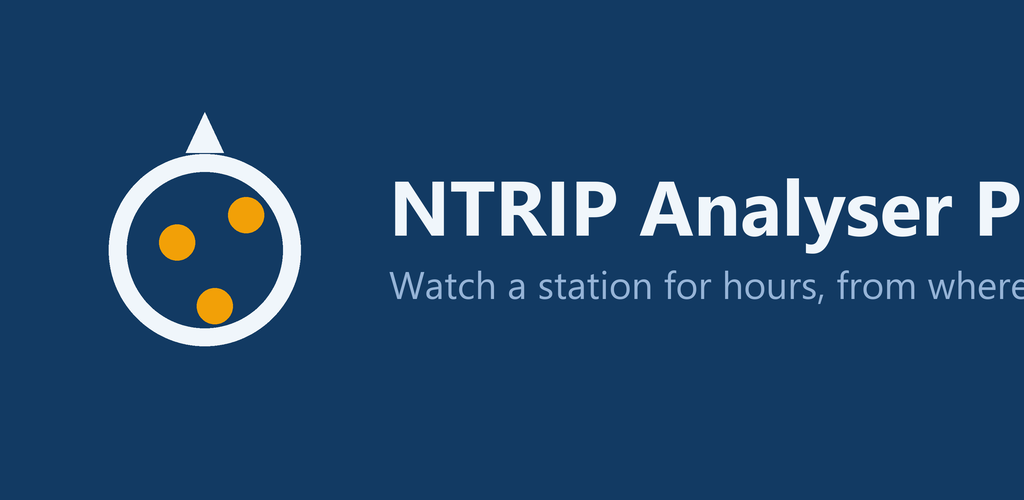
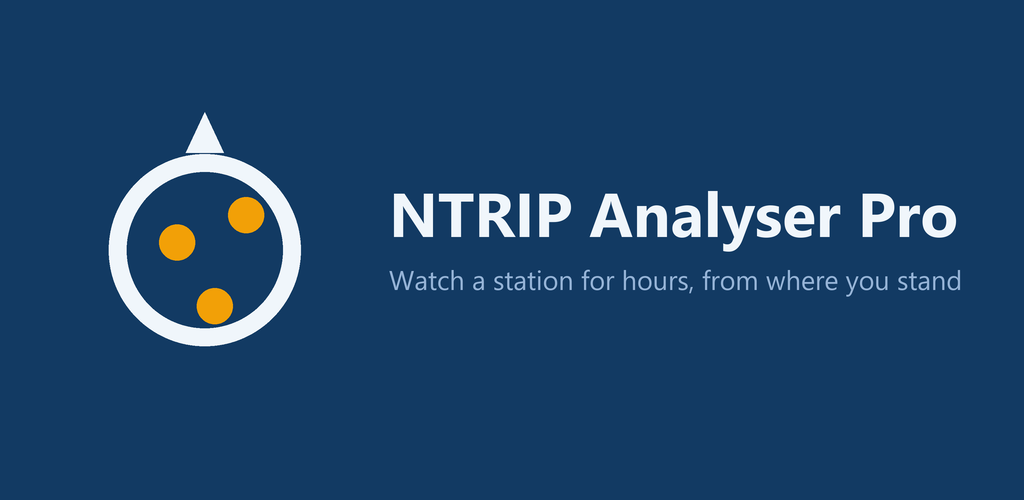
Curate: six gotchas from the Play sitting, and one about advice
The console's mechanics cost a step each -- the package binds at
creation, the price hides behind a seller account and blocks every
track, tracks do not share releases, a version code exists once. The
device work cost three more: a debug build cannot be replaced in
place, EMUI has no screenrecord and Git Bash eats /sdcard paths, and
a screen recording carries whatever the notification shade holds.
The feature graphic taught that a layout depending on a string must
measure the string, and now asserts it.

The promotion is about the agent, not the code: a EUR 12.99 price
was recommended as the middle of a comparison set that had never
been looked up, and the author was one click from pricing a listing
on it. CLAUDE.md gains the constraint -- cite the basis or say there
isn't one -- because this project holds its state claims to a verify
command and its advice should not be looser. Current State carries
pro's closed-test preparation and the internal-track proof that the
Play-signed artefact runs.

Changed region(s): [[0.375, 0.36, 1.0, 0.51], [0.375, 0.54, 1.0, 0.6]]

diff --git a/tools/make_feature_graphic.py b/tools/make_feature_graphic.py
@@ -58,6 +58,29 @@ EDITIONS = {
 }
 
 
+# Text must end this far from the right edge, as a fraction of the
+# width. Play crops this graphic on some surfaces and the first
+# casualty is always text near a border.
+RIGHT_MARGIN = 0.06
+
+
+def fitted(d, text, px, bold, avail):
+    """The largest size at or below @p px whose text fits @p avail.
+
+    The sizes above were chosen against the free edition's title and
+    never measured against anything else, so "NTRIP Analyser Pro" ran
+    off the canvas and the listing showed "NTRIP Analyser P" -- caught
+    by the author's eye at upload, 2026-08-26. A layout that depends on
+    the length of a string has to measure the string.
+    """
+    while px > 8:
+        f = font(px, bold=bold)
+        if d.textlength(text, font=f) <= avail:
+            return f
+        px -= 2
+    return font(8, bold=bold)
+
+
 def font(px, bold=False):
     for name in (("segoeuib.ttf", "arialbd.ttf") if bold
                  else ("segoeui.ttf", "arial.ttf")):
@@ -80,10 +103,16 @@ def build(edition):
     icons.draw_mark(d, cx, cy, r, accent)
 
     x = w * 0.38
-    t = font(int(h * 0.155), bold=True)
-    s = font(int(h * 0.077))
+    avail = w - x - w * RIGHT_MARGIN
+    t = fitted(d, title, int(h * 0.155), True, avail)
+    s = fitted(d, promise, int(h * 0.077), False, avail)
     tw = d.textbbox((0, 0), title, font=t)
     sw = d.textbbox((0, 0), promise, font=s)
+    # Both lines are measured after fitting, so an overflow cannot ship
+    # quietly the way the first pro graphic did.
+    for label, text, f in (("title", title, t), ("promise", promise, s)):
+        assert d.textlength(text, font=f) <= avail, (
+            "%s overflows the %s graphic" % (label, edition))
     block = (tw[3] - tw[1]) + int(h * 0.06) + (sw[3] - sw[1])
     y = (h - block) / 2 - tw[1]
 

diff --git a/memory/gotcha-log.md b/memory/gotcha-log.md
@@ -206,7 +206,7 @@
 ### A hand-written source list drifted until a second build system was run (2026-08-15) [RESOLVED]
 **Problem**: `make -C service` failed to link — undefined reference to `get_gnss_id_from_rtcm` — on its first CI run. It had been broken for some time.
 **Root cause**: `service/Makefile` lists its sources by hand and never gained `src/net/ntrip_handler.c`. CMake keeps its own list and built the daemon happily, so the failure was invisible to everyone except a packager or a VPS deployment.
-**Fix**: Wildcard the shared directories (`src/core`, `src/net`, `src/session` are shared *by definition*; anything platform-specific lives elsewhere). **If two build systems describe the same sources, CI must run both** — the same gap the GUI's `build-gui.bat` still has.
+**Fix**: Wildcard the shared directories (`src/core`, `src/net`, `src/session` are shared *by definition*; anything platform-specific lives elsewhere). **If two build systems describe the same sources, CI must run both** — the gap the GUI's `build-gui.bat` had until it was retired outright on 2026-08-25 (TLS L2), leaving `CMakeLists.txt` as the only desktop list.
 
 ### A tag on a tree whose bump was never committed (2026-08-15) [x2]
 *Recurred 2026-08-18, identically, with `v3.5.0`: same staged-not-committed bump, same failed run, same message with the numbers changed. It had been marked `[RESOLVED]` three days earlier — wrongly, because the recorded fix was **advice** ("check `git show <tag>:version.h` first"), and advice is not a mechanism. What actually works is already in place and worked twice: `CheckReleaseTag.cmake` failed the run before anything was published. Retiring an entry needs a change to the code or the procedure, not a resolution to be careful.*
@@ -414,6 +414,36 @@ Found by probe rather than by reading: a background colour showed the empty band
 **Root cause**: `ns_proto` had parsed `handshake.chunked` since the field existed and the GUI displayed it; nothing ever decoded the framing. A parsed-but-unconsumed field is a decision postponed until a live wire forces it.
 **Fix**: the session de-chunks (gated on the handshake), the sourcetable fetch de-chunks in place, and the loopback caster serves chunked with boundaries cut mid-frame -- falsified by gating the decoder off, which reproduced the live corruption exactly.
 
+### A recommendation dressed as research (2026-08-26)
+**Problem**: the agent recommended a €12.99 price "mid-upper of the comparison set -- NTRIP clients and GNSS field tools sit at €5-20", and the author was one click from attaching that number to a real listing.
+**Root cause**: the band was an impression, not a search. Nothing had been looked up; the phrase "comparison set" implied evidence that did not exist. The project has a verified-claims discipline for *state* ("shipped", "16 tests") and none for *recommendations*, which decay the same way and cost more.
+**Fix**: the author asked for the real table, the search found there is **no paid NTRIP app market on Play at all** (clients free because they sell hardware; the nearest analogue, NtripChecker, free with 10,000+ installs; the next rung $100-300 survey suites), and the price became €5 on evidence. Promoted below: cite the basis or say plainly there isn't one.
+
+### A release build cannot replace a debug build in place (2026-08-26)
+**Problem**: `install -r` of pro's release APK over the Huawei's leftover debug build failed with `INSTALL_FAILED_UPDATE_INCOMPATIBLE`; the only route is uninstall, which wipes saved connections and credentials on a phone that holds the author's real data.
+**Root cause**: different signing keys. A debug build left on a test phone is not a neutral state -- it is a one-way door that costs data to leave.
+**Fix**: asked before uninstalling, then rebuilt the RFSEE01 profile from `bin/config.json` and **proved the retyped password by running a check** rather than asserting it. Rule: after a debugging session, put the release build back the same day, while its settings are still cheap to restore.
+
+### The device is not the same device twice (2026-08-26) [x2]
+**Problem**: `adb shell screenrecord` -- "inaccessible or not found" on the Huawei; and the same command wrote nothing because Git Bash rewrote `/sdcard/fsvc.mp4` into `C:/Program Files/Git/sdcard/fsvc.mp4`.
+**Root cause**: EMUI ships no `screenrecord` binary (Samsung does), and MSYS path conversion mangles absolute device paths that look like POSIX paths.
+**Fix**: record on the S23; `export MSYS_NO_PATHCONV=1` for every adb command naming a device path.
+
+### A screen recording carries whatever the shade holds (2026-08-26)
+**Problem**: a video destined for Google -- and an unlisted YouTube upload -- pulled down the notification shade twice, capturing the author's Google Payments mail about verifying a bank account, and on the retake the phone's own charging and USB notifications.
+**Root cause**: demonstrating an ongoing notification means showing the shade, and the shade is not ours.
+**Fix**: inspect the shade with a screenshot **before** recording, never after; and record **unplugged over Wi-Fi adb** (`adb tcpip 5555`), which removes the charging notifications the cable itself creates. Screen timeout and battery saver are raised for the take and restored afterwards, both values read first.
+
+### A layout that depends on a string must measure the string (2026-08-26)
+**Problem**: pro's Play feature graphic read "NTRIP Analyser P" -- title and tagline both ran off the 1024x500 canvas. Caught by the author's eye at upload, not by any check.
+**Root cause**: `make_feature_graphic.py` chose font sizes as fractions of the canvas height, sized against free's shorter title, and never measured the text it drew. Its own docstring promised "everything sits inside a wide safe area".
+**Fix**: fit the text to the available width and **assert** both lines fit before saving. Free's graphic and the social preview regenerated byte-identical, which is the fitter proving it shrinks only what overflows.
+
+### Play Console mechanics that cost a step each (2026-08-26)
+**Problem**: four wrong assumptions in one sitting -- that the package name binds at first upload, that the price could wait until production, that a bundle uploaded once is available to every track, and that a version code can be uploaded twice.
+**Root cause**: none of it is guessable; all of it is stated by the forms.
+**Fix**: package binds **at app creation** and is permanent; the price is padlocked behind a **seller/payments account** and blocks rollout to *any* track including closed; **tracks do not share releases** (an empty internal release reads as three separate errors); a version code exists once per app, so a second track attaches it with **"Toevoegen vanuit bibliotheek"**. Recorded in `design/work-items/pro-to-play.md` S3.
+
 ## Promoted
 
 <!-- Track what has been promoted, so it is not promoted twice and so the loop
@@ -438,4 +468,5 @@ Found by probe rather than by reading: a background colour showed the empty band
 | 2026-08-20 | The shell between you and the device edits what passes through it | **2** — paths rewritten by Git Bash 2026-08-14 and again 2026-08-20, a PNG CRLF-mangled by the PTY 2026-08-20 | `memory/MEMORY.md` active decisions; `MSYS_NO_PATHCONV=1` for paths, `adb exec-out` for bytes |
 | 2026-08-22 | The device under test holds the author's data | **2** — `pm clear` wiped pro's caster and credentials; free on the S23 was left alone for the same reason | `memory/MEMORY.md` active decisions |
 | 2026-08-25 | A pause that lives in prose is not a checklist | **2** — 3.7.2 and 3.7.3 both hit `no matches found` at the upload because packaging lived in a sentence between the commands | `docs/RUNBOOK.md` release sequence; hand over commands only when everything they name exists |
+| 2026-08-26 | Cite the basis, or say there isn't one | **1** — a €12.99 price "band" the agent had never looked up, nearly attached to a live listing; the real search found no paid NTRIP market at all | `CLAUDE.md` hard constraint |
 | 2026-08-25 | A flag's lifetime must match the thing it describes | **2** — `usedEphStream` reset per run over a process-lived cache (2026-08-25); the same family as the matrix's stale-file-as-full-cache | `memory/MEMORY.md` active decisions |

diff --git a/design/work-items/pro-to-play.md b/design/work-items/pro-to-play.md
@@ -40,10 +40,21 @@ touches three console-side mechanisms the free edition never did:
 recommendations; the price carries a working figure the author
 confirms at S5, where it is actually attached):
 
-1. **Price: €12.99**, one-time. Mid-upper of the recommended band --
-   Play permits changing a price later, and a discount is a gift
-   where a rise is an insult, so the launch starts high enough to
-   move down from. Confirmed or overridden at S5.
+1. **Price: €5.00**, one-time (author, 2026-08-26 — set in the
+   console). It replaces a recommendation of €12.99 that rested on
+   nothing: the agent described a "comparison set at €5-20" it had
+   never looked up, the author asked for the real table, and the
+   search found there is **no paid NTRIP app market on Play at all**.
+   The clients are free because they sell hardware (Eos, Messick's,
+   GeoSpot, Bluecover) or are goodwill (Lefebure); the one app that
+   does what pro does -- **NtripChecker**, which analyses RTCM
+   streams -- is free with 10,000+ installs; above that the jump is
+   to full survey suites at $100-300, sold with receivers through
+   another channel. So this price does not join a band, it creates
+   one, and the honest comparator a buyer reaches for is zero. €5
+   is the establish-the-category end of that: installs and reviews
+   are what a cold listing lacks most, and raising a price later is
+   the move that cannot be made gracefully.
 2. **Screenshots: reshoot both listings** on the author's own
    stations, on the S23, 3.8.0's UI. Licence action 6 closes with it.
 3. **Testers: free's own** -- the GitHub reporters, via a
@@ -116,7 +127,51 @@ name appears unless its operator's terms allow it; free's refreshed
 set is byte-different from the live listing before upload (no stale
 re-upload).
 
-### S3 — the closed track
+### S3 — the closed track  *(in progress 2026-08-26)*
+
+**What the console demanded that the plan did not foresee**, recorded
+as it happened:
+
+* **The package name binds at app creation**, not at first upload —
+  the agent said the opposite one step earlier and was corrected by
+  the form itself. `nl.pe1mew.ntripanalyser.pro`, permanent.
+* **The price came forward from S5.** A paid app cannot roll out to
+  *any* track, closed included, without a price — and the price is
+  padlocked behind a **seller/payments account**, which a free app
+  never needed and which Google verifies over days. That account is
+  the real critical path of this item, not the forms.
+* **The foreground-service declaration demands a video.**
+  `FOREGROUND_SERVICE_DATA_SYNC` with the honest answer ("Overig" —
+  none of backup/restore, transcoding or import/export describes
+  holding an NTRIP stream open) requires a link to a video showing
+  the user-visible flow. Recorded on the S23 with adb `screenrecord`:
+  run starts, ongoing notification, home screen, still measuring,
+  return. Two lessons: the Huawei has no `screenrecord` binary
+  (EMUI omits it) and Git Bash mangles `/sdcard/...` into a Windows
+  path unless `MSYS_NO_PATHCONV=1` is set; and the recording pulls
+  the notification shade down, so **clear personal notifications
+  first** — the first take had the author's mail in frame.
+* **The internal test track earned its place, for a reason the plan
+  never listed.** It buys nothing toward the fortnight — Play says
+  plainly that a closed test is still required — but it is the only
+  way to exercise the artefact users actually receive: Play re-signs
+  the bundle under Play App Signing, so every local `install -r` up
+  to now had tested the author's key, not Google's. Verified on the
+  S23 on 2026-08-26: `installerPackageName=com.android.vending`,
+  versionName 3.8.0, versionCode 30800, no DEBUGGABLE flag, and the
+  app runs. Two mechanics worth remembering: **tracks do not share
+  releases** (the bundle uploaded to the closed draft leaves the
+  internal release empty, which reads as three separate errors), and
+  a version code exists once per app, so the second track attaches
+  it with **"Toevoegen vanuit bibliotheek"** rather than a re-upload.
+* **The pro feature graphic overflowed its canvas** and the listing
+  showed "NTRIP Analyser P". `make_feature_graphic.py` sized text
+  against free's shorter title and never measured; it now fits to
+  the available width and *asserts* both lines fit before saving.
+  Free's graphic and the social preview regenerated byte-identical,
+  which is the fitter proving it only shrinks what overflows.
+
+*(As planned:)*
 
 Upload the existing, artefact-checked `app-pro-release.aab` (3.8.0 —
 no new build; the release that exists is the release that tests),

diff --git a/readme.md b/readme.md
@@ -17,7 +17,7 @@ antenna or siting problem for what it is.
 | | |
 |---|---|
 | **NTRIP Analyser** | free. The full eight-check verdict, the analysis views, and the sourcetable browser, for one caster at a time. |
-| **NTRIP Analyser Pro** | *under development.* Adds watch mode for hours-long measurement, live position for network mountpoints, saved connections, and an ephemeris side-stream for a complete sky. |
+| **NTRIP Analyser Pro** | *in closed testing.* Adds watch mode for hours-long measurement, the stability report, the network-RTK check, the reference-position watch, satellite tracks, statistics export, live position for network mountpoints, saved connections, and an ephemeris side-stream for a complete sky. |
 
 <table>
 <tr>
@@ -48,6 +48,33 @@ with the caster, the mountpoint and what you expected. A verdict that
 disagrees with a station you know is the most useful bug report this
 project can receive, because every threshold behind it is a judgement
 rather than a fact ([which ones, and how well founded](https://pe1mew.github.io/NTRIP-Analyser/thresholds.html)).
+
+### NTRIP Analyser Pro: testers wanted, and it costs nothing
+
+Pro is finished and released — TLS was the last thing it was waiting
+for — and it now has to serve the same fortnight the free edition
+served: **twelve testers, opted in and staying opted in for fourteen
+continuous days**, before a personal developer account may ask for
+production access. That rule counts **per app**, so free's testers do
+not carry across. Joining is, quite literally, the thing standing
+between pro and the store.
+
+**Testing it is free.** Pro is a paid app, but testers are added as
+license testers and install it without being charged.
+
+**→ [Join the pro test](https://play.google.com/apps/testing/nl.pe1mew.ntripanalyser.pro)**
+— or [open an issue](https://github.com/pe1mew/NTRIP-Analyser/issues)
+asking to be added, and we will add you.
+
+What pro adds over free is measurement over time rather than a
+different measurement: watch mode for runs lasting hours, the
+stability report with its own six verdicts, the network-RTK check for
+VRS services, the reference-position watch that catches a network
+handing you to another station, satellite tracks, and statistics
+export — [the full list](https://github.com/pe1mew/NTRIP-Analyser/wiki/What-the-paid-edition-adds).
+**The eight checks and their verdicts are identical in both
+editions**, which is the point: nothing is withheld to make the free
+edition look worse.
 
 ### Samsung Galaxy Store, and F-Droid from our own repository
 

diff --git a/memory/MEMORY.md b/memory/MEMORY.md
@@ -67,6 +67,18 @@
   comes next. The rollout record with every deviation and live find is
   `design/work-items/tls-rollout.md`.
   <!-- verify: git rev-parse v3.8.0 -->
+- **Pro is in Play's closed-test preparation** (2026-08-26). The app
+  entry exists, born paid, package bound; listing, graphics, all nine
+  content declarations, tester lists, bundle and notes are in, and the
+  `FOREGROUND_SERVICE_DATA_SYNC` declaration carries a demonstration
+  video recorded on the S23. Price **€5** on evidence (there is no
+  paid NTRIP market on Play; the nearest analogue is free). The Play
+  **internal** track verified what local installs never could: the
+  Play-signed artefact runs on hardware
+  (`installerPackageName=com.android.vending`, 30800). Blocked only on
+  Google verifying the payments profile, which gates the price and so
+  the rollout. Plan and deviations: `design/work-items/pro-to-play.md`.
+  <!-- verify: manual — the Play Console is the only source for track state -->
 - **Phase 2's earlier five**: VRS check, hand-over, statistics export
   <!-- verify: grep -c "done 2026-08" design/work-items/tier2-on-the-phone.md -->
   and tier 2 shipped pro-gated in one day each, every plan in

diff --git a/docs/wiki/Pro-edition.md b/docs/wiki/Pro-edition.md
@@ -12,6 +12,26 @@ withheld to make the free edition look worse.
 
 These pages cover only what is different.
 
+## Where to get it
+
+Pro is in **closed testing** on Google Play. A personal developer
+account must run a closed test with **twelve testers who stay opted in
+for fourteen continuous days** before it may request production
+access, and that rule counts per app — the free edition serving it
+does not exempt this one.
+
+**Testers are not charged.** Pro is a paid app, but testers are added
+as licence testers and install it without paying.
+
+[Join the test](https://play.google.com/apps/testing/nl.pe1mew.ntripanalyser.pro),
+or [open an issue](https://github.com/pe1mew/NTRIP-Analyser/issues)
+asking to be added.
+
+What helps most during the test is the same thing that helps most
+after it: a station where the verdict looks wrong. The thresholds
+behind every verdict are judgements rather than facts, and a station
+you know well is the best evidence against one.
+
 | | |
 |---|---|
 | **[Watch mode](Watch-mode)** | Keep measuring for hours: availability, streaks, degradations |

diff --git a/CLAUDE.md b/CLAUDE.md
@@ -65,6 +65,12 @@ because people will point it at real stations and believe what it says.
   TLS rollout (2026-08-25); `service/Makefile` builds by wildcard.
 - **Never document a function in both header and `.c`.** Doxygen merges
   them and reports nonsense.
+- **Cite the basis, or say there isn't one.** A recommendation that
+  sounds researched must be researched: "the comparison set sits at
+  €5-20" was an impression, and the author was one click from pricing
+  a listing on it (2026-08-26). The same discipline the memory index
+  applies to state claims applies to advice — evidence, or an explicit
+  "I haven't checked".
 - **Verify against a live caster before claiming something works.** A
   clean build proves nothing here. The same rule for anything published:
   fetch the page, do not trust the deploy status.
